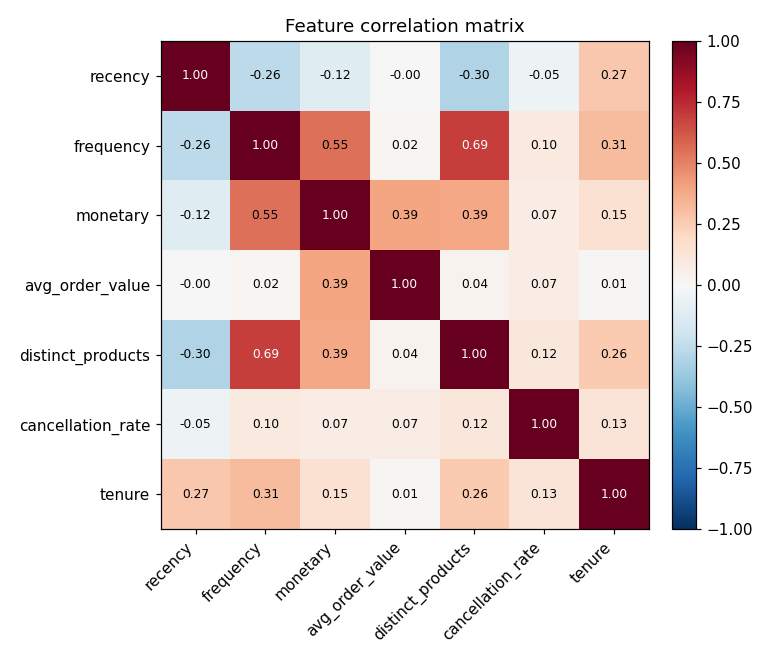
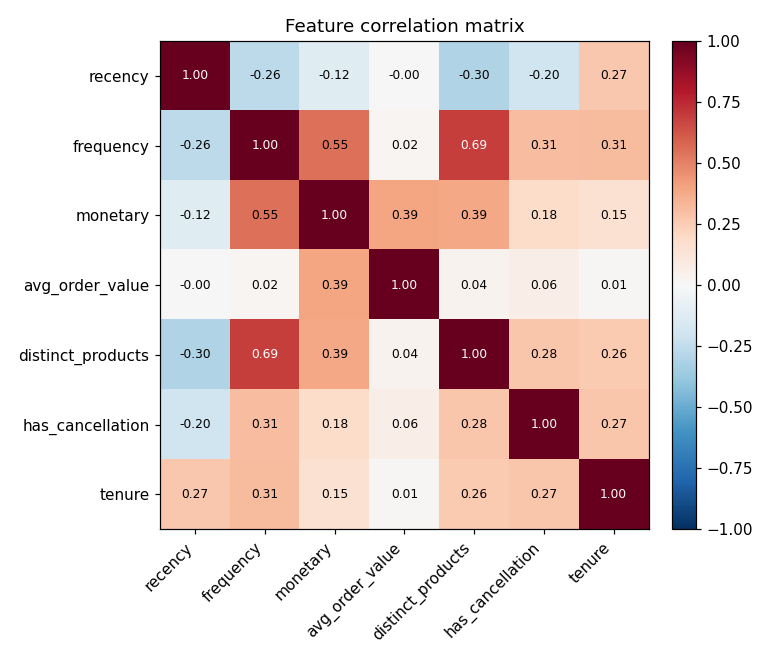
Re-run analyses with binary has_cancellation included in clustering; update reports and charts

diff --git a/eda_features.py b/eda_features.py
@@ -32,17 +32,20 @@ CORR_CSV = REPORT_DIR / "feature_corr.csv"
 
 FEATURES = [
     "recency", "frequency", "monetary", "avg_order_value",
-    "distinct_products", "cancellation_rate", "tenure",
+    "distinct_products", "has_cancellation", "tenure",
 ]
-# Dropped as redundant: basket_size (r=0.93 with avg_order_value),
-# cadence (r=0.89 with recency). Kept in DISPLAY_FEATURES for
-# documentation, excluded from clustering.
-DROPPED_FEATURES = ["basket_size", "cadence"]
+# Dropped from clustering: basket_size (r=0.93 with avg_order_value),
+# cadence (r=0.89 with recency), cancellation_rate (confounded with low
+# frequency — see reports/decision_tests.md). Kept in DISPLAY_FEATURES
+# for documentation / post-hoc profiling.
+DROPPED_FEATURES = ["basket_size", "cadence", "cancellation_rate"]
 # Display-only: non-clustering features shown in the report.
-DISPLAY_FEATURES = FEATURES + DROPPED_FEATURES + ["return_rate"]
+DISPLAY_FEATURES = FEATURES + DROPPED_FEATURES + ["return_rate",
+                                                  "cancellation_count",
+                                                  "cancellation_value"]
 LOG_FEATURES = [
     "recency", "frequency", "monetary", "avg_order_value",
-    "distinct_products", "cancellation_rate",
+    "distinct_products",
 ]
 
 

diff --git a/eda_charts.py b/eda_charts.py
@@ -49,7 +49,7 @@ def main() -> None:
 
     # 3. Correlation heatmap
     features = ["recency", "frequency", "monetary", "avg_order_value",
-                "distinct_products", "cancellation_rate", "tenure"]
+                "distinct_products", "has_cancellation", "tenure"]
     corr = feat[features].corr()
     fig, ax = plt.subplots(figsize=(7, 6))
     im = ax.imshow(corr.values, cmap="RdBu_r", vmin=-1, vmax=1)
@@ -72,8 +72,8 @@ def main() -> None:
     from sklearn.preprocessing import StandardScaler
 
     log_features = ["recency", "frequency", "monetary", "avg_order_value",
-                    "distinct_products", "cancellation_rate"]
-    X = feat[["tenure"]].copy()
+                    "distinct_products"]
+    X = feat[["tenure", "has_cancellation"]].copy()
     for f in log_features:
         X[f] = np.log1p(feat[f].clip(lower=0))
     X = StandardScaler().fit_transform(X)

diff --git a/feature_quality.py b/feature_quality.py
@@ -35,11 +35,11 @@ QUALITY_CSV = REPORT_DIR / "feature_quality.csv"
 
 FEATURES = [
     "recency", "frequency", "monetary", "avg_order_value",
-    "distinct_products", "cancellation_rate", "tenure",
+    "distinct_products", "has_cancellation", "tenure",
 ]
 LOG_FEATURES = [
     "recency", "frequency", "monetary", "avg_order_value",
-    "distinct_products", "cancellation_rate",
+    "distinct_products",
 ]
 
 

diff --git a/reports/feature_eda_report.md b/reports/feature_eda_report.md
@@ -11,13 +11,16 @@
 | monetary | 2,048.69 | 8,985.23 | 668.57 | 19.34 |
 | avg_order_value | 417.65 | 1,796.51 | 291.94 | 41.69 |
 | distinct_products | 61.37 | 85.29 | 35.00 | 6.92 |
-| cancellation_rate | 0.11 | 0.17 | 0.00 | 1.40 |
+| has_cancellation | 0.36 | 0.48 | 0.00 | 0.59 |
 | tenure | 222.31 | 117.89 | 248.00 | -0.37 |
 | basket_size | 252.46 | 1,312.77 | 161.00 | 48.01 |
 | cadence | 98.02 | 87.59 | 66.71 | 1.46 |
+| cancellation_rate | 0.11 | 0.17 | 0.00 | 1.40 |
 | return_rate | 0.00 | 0.00 | 0.00 | 0.00 |
+| cancellation_count | 0.83 | 2.15 | 0.00 | 8.83 |
+| cancellation_value | 137.92 | 2,957.92 | 0.00 | 47.47 |
 
-- **Right-skewed (|skew| > 1): recency, frequency, monetary, avg_order_value, distinct_products, cancellation_rate, basket_size, cadence** — log-transform these before distance-based clustering.
+- **Right-skewed (|skew| > 1): recency, frequency, monetary, avg_order_value, distinct_products, basket_size, cadence, cancellation_rate, cancellation_count, cancellation_value** — log-transform these before distance-based clustering.
 - `tenure` is the only near-symmetric feature (skew -0.37).
 - `return_rate` is **constant 0** — every negative-quantity line in the raw data sat on a C-invoice or a guest checkout, so no returns survive the cleaning policy. Excluded from the clustering feature set: a constant cannot separate clusters.
 
@@ -39,17 +42,17 @@ Full matrix written to `reports\feature_corr.csv`. Strongest absolute pairs (|r|
 
 | k | inertia | silhouette |
 |---|---|---|
-| 2 | 20,780 | 0.283 |
-| 3 | 17,890 | 0.232 |
-| 4 | 15,474 | 0.242 |
-| 5 | 13,778 | 0.220 |
-| 6 | 12,678 | 0.201 |
-| 7 | 11,867 | 0.206 |
-| 8 | 11,129 | 0.201 |
-| 9 | 10,542 | 0.204 |
-| 10 | 10,088 | 0.192 |
+| 2 | 20,040 | 0.305 |
+| 3 | 17,144 | 0.239 |
+| 4 | 15,081 | 0.210 |
+| 5 | 13,310 | 0.236 |
+| 6 | 12,237 | 0.221 |
+| 7 | 11,460 | 0.216 |
+| 8 | 10,712 | 0.220 |
+| 9 | 10,170 | 0.216 |
+| 10 | 9,669 | 0.214 |
 
-- **Best silhouette: k = 2** (score 0.283).
+- **Best silhouette: k = 2** (score 0.305).
 - Inertia keeps falling with k (expected); silhouette peaks at the natural cluster count. Confirm with business interpretability of the resulting segments.
 
 ## 5. Next steps

diff --git a/reports/feature_quality.md b/reports/feature_quality.md
@@ -6,13 +6,13 @@
 
 | feature | eta^2 | single-feature silhouette | best k | zero share |
 |---|---|---|---|---|
-| cancellation_rate | 0.702 | 0.864 | 5 | 64% |
-| frequency | 0.608 | 0.781 | 5 | 0% |
-| tenure | 0.565 | 0.672 | 2 | 0% |
-| monetary | 0.553 | 0.566 | 2 | 0% |
-| recency | 0.434 | 0.583 | 4 | 2% |
-| distinct_products | 0.403 | 0.556 | 2 | 0% |
-| avg_order_value | 0.168 | 0.540 | 2 | 0% |
+| monetary | 0.671 | 0.566 | 2 | 0% |
+| frequency | 0.668 | 0.781 | 5 | 0% |
+| tenure | 0.629 | 0.672 | 2 | 0% |
+| distinct_products | 0.501 | 0.556 | 2 | 0% |
+| recency | 0.489 | 0.583 | 4 | 2% |
+| has_cancellation | 0.333 | 1.000 | 2 | 64% |
+| avg_order_value | 0.232 | 0.540 | 2 | 0% |
 
 ## How to read this
 
@@ -22,6 +22,6 @@
 
 ## Verdict
 
-- Strongest segment drivers (eta^2): cancellation_rate, frequency, tenure, monetary.
-- Weakest: recency, distinct_products, avg_order_value.
+- Strongest segment drivers (eta^2): monetary, frequency, tenure, distinct_products.
+- Weakest: recency, has_cancellation, avg_order_value.
 - Redundant pairs to collapse: avg_order_value/basket_size (r=0.93), recency/cadence (r=0.89).
